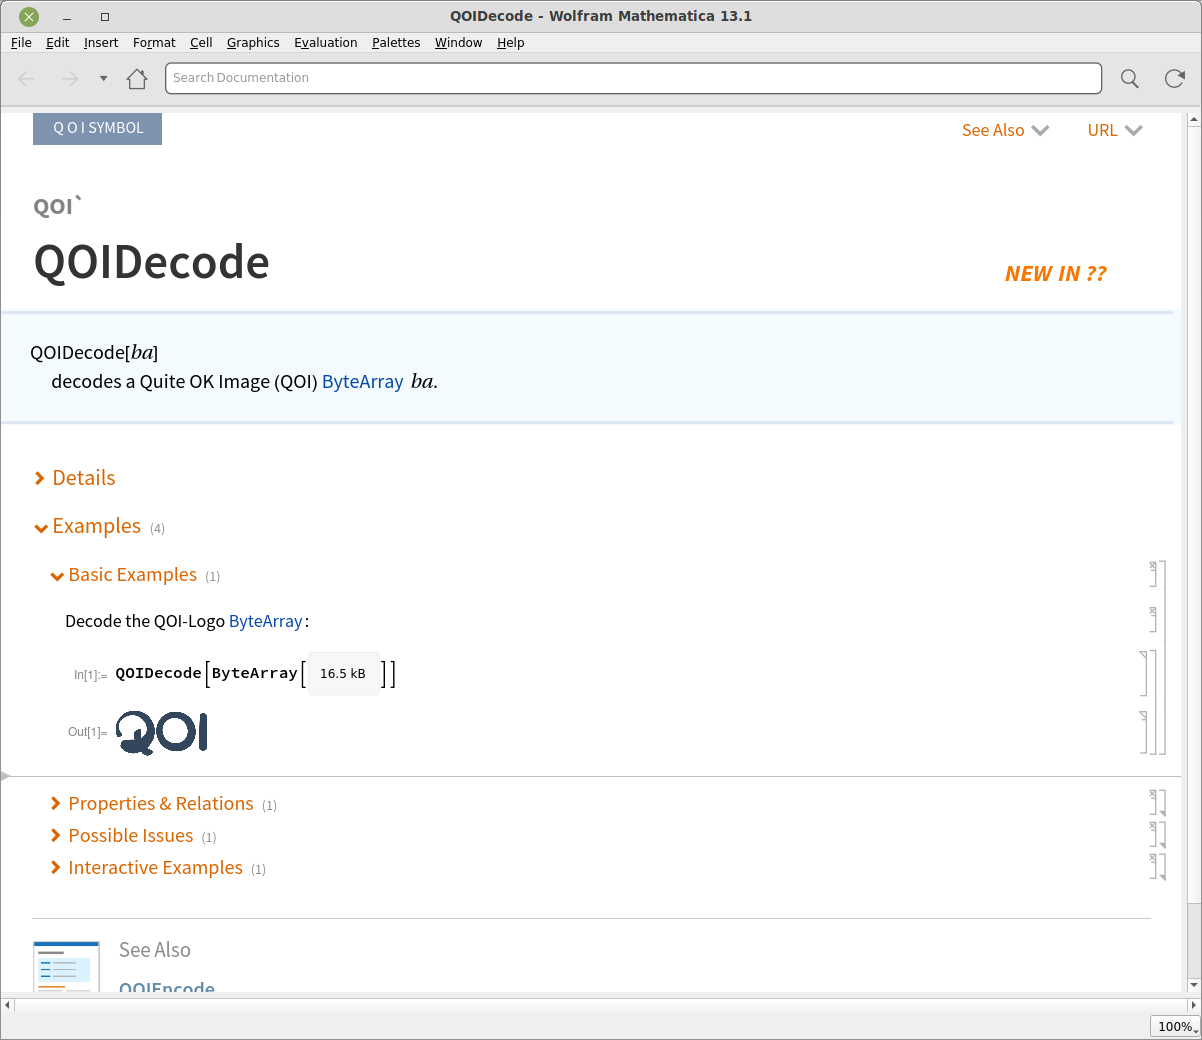
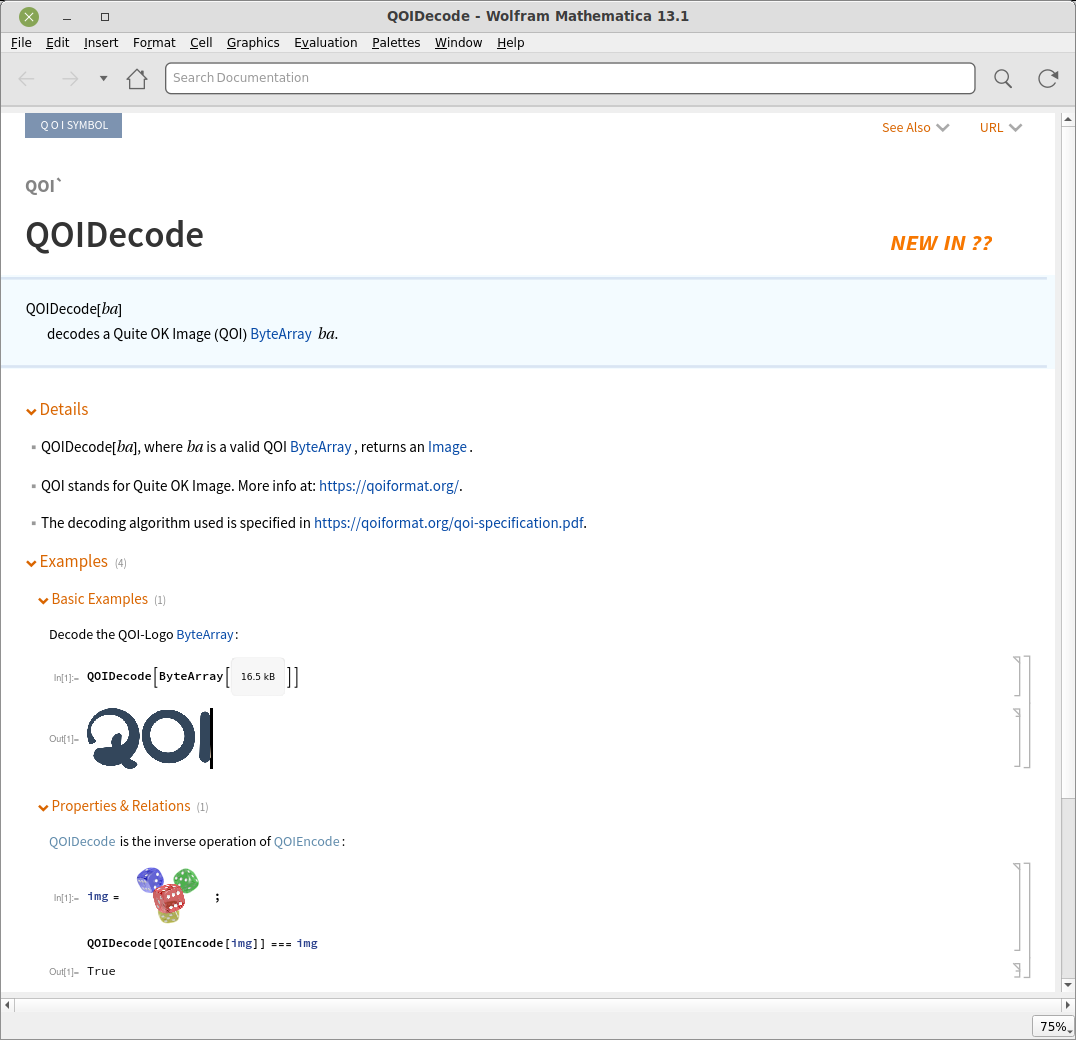
Improving ref screenshot used in README.

diff --git a/README.md b/README.md
@@ -21,11 +21,11 @@ In[]:= Names["QOI`*"]
 Out[]= {"QOIDecode", "QOIEncode"}
 ```
 
-Open the documentation of the `QOIEncode` function:
+Open the documentation of the `QOIDecode` function:
 ```Mathematica
-NotebookOpen[Information[QOIEncode, "Documentation"]["Local"]]
+NotebookOpen[Information[QOIDecode, "Documentation"]["Local"]]
 ```
-![ref/QOIEncode](./screenshots/ref-QOIEncode.png)
+![ref/QOIEncode](./screenshots/ref-QOIDecode.png)
 
 # Build
 
